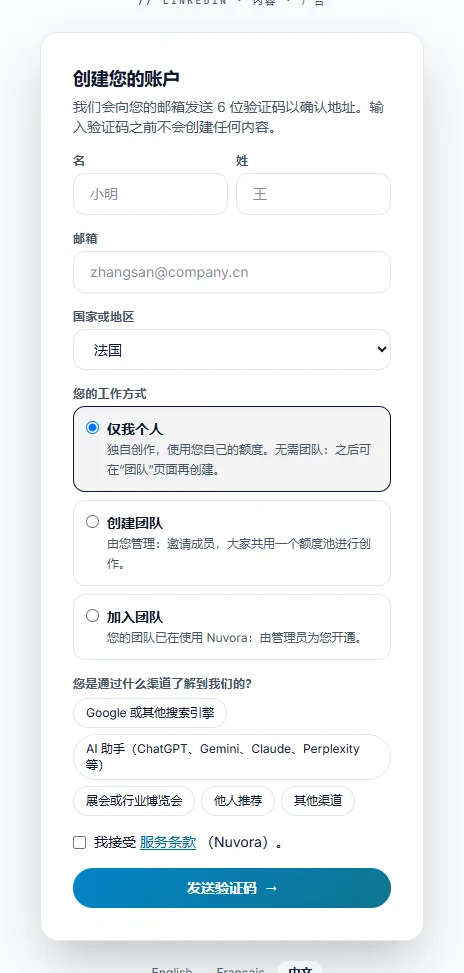
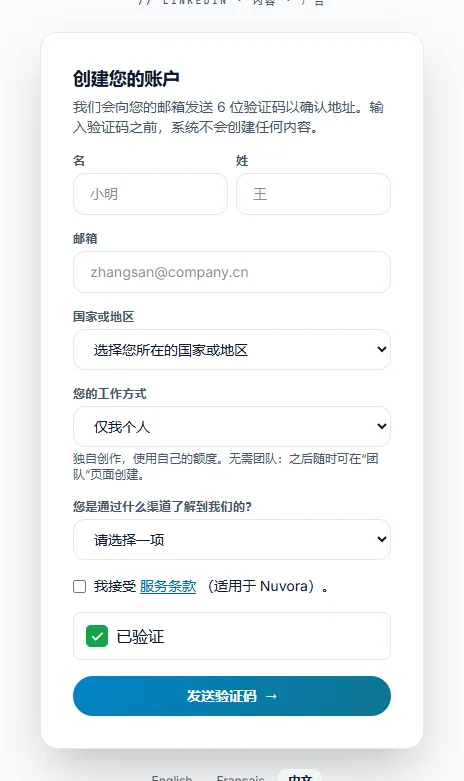
Help (EN/FR/ZH) synced from the app: sign up asks How you work in a list, captures retaken; the other articles brought up to date (sign in check, agents, LinkedIn posts, troubleshooting, your team)

diff --git a/src/content/help/en/getting-started.md b/src/content/help/en/getting-started.md
@@ -5,7 +5,7 @@ description: "What Nuvora is, how to create your account alone or with a team, h
 excerpt: "Create your account, find your way around the menu and publish your first LinkedIn post in a few minutes."
 section: "getting-started"
 order: 1
-updated: 2026-10-14
+updated: 2026-10-16
 appPaths: ["/signup", "/login", "/discover", "/social/linkedin/posts"]
 audience: "Everyone"
 related: ["discovery-and-tips", "linkedin-posts", "calendar", "linkedin-ads", "validation", "ask", "agents", "assets-library", "my-connections", "balance-and-payments", "your-team", "client-space", "account-and-sign-in"]
@@ -13,8 +13,8 @@ shots:
   - file: "/images/help/getting-started-signup.webp"
     route: "/signup"
     clip: "the Create your account card"
-    alt: "The Create your account card: First name, Last name, Email, Country, the three choices under How you work, the five answers under How did you hear about us?, the Terms of Service box and Send my code"
-    captured: 2026-10-14
+    alt: "The Create your account card: First name, Last name, Email, Country, the How you work list, the How did you hear about us? list, the Terms of Service box, the I'm not a robot check, ticked, and Send my code"
+    captured: 2026-10-16
   - file: "/images/help/getting-started-menu.webp"
     route: "/social/linkedin/posts"
     clip: "#side-nav"
@@ -30,19 +30,19 @@ You can work alone, or in a team that shares one prepaid balance, held in US dol
 ## Create your account
 
 1. On the sign-in page, click **Create an account**.
-2. Type your **First name**, **Last name** and **Email**.
+2. Type your **First name**, **Last name** and **Email**. A name can't contain a web address or an email address.
 3. Under **Country**, pick the country you work from. The list is written in the language of the page; when Nuvora can tell where you connect from, that country is already picked, and you change it if it is wrong.
-4. Under **How you work**, pick one of the three options:
+4. Under **How you work**, open the list and pick one of the three options. **Just me** is picked to start with, and the line under the list explains the option you picked:
    - **Just me**: "Create on your own, with your own credits. No team needed: you can create one later from the Team page." No team is created: you work as a **Creator**. If you create a team later from the **Team** page, you become its Admin.
-   - **Create a team**: "You run it: invite people, and they create from one shared pool of credits." A field appears: type the name of your team. You are its administrator.
+   - **Create a team**: "You run it: invite people, and they create from one shared pool of credits." A field appears: type the name of your team, which can't contain a web address or an email address either. You are its administrator.
    - **Join a team**: "Your team already uses Nuvora: an admin lets you in." A field appears where you type your team's name or your admin's email address.
-5. Under **How did you hear about us?**, pick the answer that fits: **Google or another search engine**, **An AI assistant (ChatGPT, Gemini, Claude, Perplexity…)**, **An exhibition or a trade show**, **A referral, someone recommended us** or **Somewhere else**.
+5. Under **How did you hear about us?**, open the list, which reads **Choose an answer**, and pick the one that fits: **Google or another search engine**, **An AI assistant (ChatGPT, Gemini, Claude, Perplexity…)**, **An exhibition or a trade show**, **A referral, someone recommended us** or **Somewhere else**.
 6. Tick the box to accept the Terms of Service.
-7. Click **Send my code**. Nuvora emails you a 6-digit code. Nothing is created before you enter it.
+7. Click **Send my code**, under the box marked **I'm not a robot**, which ticks itself while the page loads: there is nothing to click. Nuvora emails you a 6-digit code. Nothing is created before you enter it.
 
 The country and the answer are both required: without them, the form says **Please choose your country.** or **Please tell us how you heard about us.** Your country shows on your page in the team, for your admins; how you heard about us stays with Nuvora.
 
-![The Create your account card: First name, Last name, Email, Country, the three choices under How you work, the five answers under How did you hear about us?, the Terms of Service box and Send my code](/images/help/getting-started-signup.webp)
+![The Create your account card: First name, Last name, Email, Country, the How you work list, the How did you hear about us? list, the Terms of Service box, the I'm not a robot check, ticked, and Send my code](/images/help/getting-started-signup.webp)
 
 The code is valid for 20 minutes. Temporary mailboxes can't open an account: use your work or personal address. If the address already has an account, you receive an email saying so instead of a code.
 
@@ -57,7 +57,7 @@ Nothing arriving? Check the spam folder, or click **start again** to correct the
 
 ## Sign in
 
-Type your **Login** (your email address) and your **Password**, then click **Sign in**. The sign-in page speaks your browser's language, English, French or Chinese, and the language names under the card switch it. Once you're in, Nuvora speaks the language saved on your account; change it any time in **User Settings**, under **Language**.
+Type your **Login** (your email address) and your **Password**, then click **Sign in**. The box marked **I'm not a robot** above the button ticks itself while the page loads and reads **Verified** a second later: it keeps scripts out, and there is nothing to click. The sign-in page speaks your browser's language, English, French or Chinese, and the language names under the card switch it. Once you're in, Nuvora speaks the language saved on your account; change it any time in **User Settings**, under **Language**.
 
 The very first time you sign in, Nuvora opens **Discovery**: every module of your menu, the first steps worth taking, the help center and a quick guided tour of the screen. If you were heading for a page, from a link in an email for instance, **Continue to your page** takes you there. After that, you land on **Posts**, or on the home page you chose in **User Settings**, and **Discovery** stays in the menu under your picture. A client login always lands on its **Client space**, and a commercial partner on **Commissions**.
 

diff --git a/src/content/help/fr/account-and-sign-in.md b/src/content/help/fr/account-and-sign-in.md
@@ -7,7 +7,7 @@ description: "La page Paramètres de Nuvora : votre nom, votre photo, votre adr
 excerpt: "Tout ce qui vous concerne dans les Paramètres du compte, et le fonctionnement de la connexion, du code de connexion et de la récupération du mot de passe."
 section: "account"
 order: 14
-updated: 2026-10-14
+updated: 2026-10-16
 appPaths: ["/settings", "/login", "/forgot-password", "/reset-password"]
 audience: "Tout le monde"
 related: ["getting-started", "discovery-and-tips", "my-connections", "your-team", "balance-and-payments", "agents", "choosing-a-model", "troubleshooting"]
@@ -42,7 +42,7 @@ Un administrateur gère l’équipe, ses membres et ses crédits partagés. Voir
 
 ## Votre nom
 
-Sous **Votre nom**, saisissez votre **Prénom** et votre **Nom**, puis cliquez sur **Enregistrer**. C’est ainsi que Nuvora s’adresse à vous et que vos collègues vous voient : dans l’en-tête, dans les listes de personnes et dans les e-mails que nous vous envoyons. Votre adresse de connexion ne change pas ici. Laissez les deux champs vides, et Nuvora affiche votre adresse e-mail à la place.
+Sous **Votre nom**, saisissez votre **Prénom** et votre **Nom**, puis cliquez sur **Enregistrer**. C’est ainsi que Nuvora s’adresse à vous et que vos collègues vous voient : dans l’en-tête, dans les listes de personnes et dans les e-mails que nous vous envoyons. Votre adresse de connexion ne change pas ici. Laissez les deux champs vides, et Nuvora affiche votre adresse e-mail à la place. Un nom ne peut contenir ni adresse web ni adresse e-mail : Nuvora vous le signale et conserve celui que vous aviez.
 
 ## Photo de profil
 
@@ -140,6 +140,12 @@ Sous **Factures**, saisissez le **Nom sur la facture** et l’**Adresse** imprim
 
 **Journal d’activité** recense chaque action payante que vous avez lancée, les ressources qu’elle a mobilisées et le montant facturé : le nombre d’actions enregistrées, ce que vous avez dépensé ce mois-ci et aujourd’hui, un graphique des 14 derniers jours, la dépense par action et la liste complète, que vous pouvez filtrer.
 
+## Journal de publication
+
+**Journal de publication** retrace le sort de chaque post LinkedIn que vous avez programmé ou publié : la date, le post, le compte, le résultat (**Publié**, **Échec de l’envoi**, **Nouvelle tentative prévue**, **Modifié sur le réseau** ou **Supprimé**) et le lien vers le post ou la réponse de LinkedIn. Trois chiffres figurent en tête : **Publié**, **Échec de l’envoi** et **Retentés plus tard**. Filtrez la liste en tapant quelques mots, ou avec **Tous**, **Publié**, **Échec de l’envoi** et **Autre** ; **Afficher plus** fait apparaître les événements plus anciens.
+
+Les posts programmés, publiés ou non, vous parviennent aussi par e-mail une fois par jour, à 8 h dans votre fuseau horaire, réunis dans un seul récapitulatif : Nuvora n’envoie aucun e-mail post par post, et une journée sans rien à signaler n’en envoie aucun. Pour arrêter ce récapitulatif, désactivez **Publication sur les réseaux sociaux** sur la page qu’ouvre **Gérer tous vos e-mails** ; le journal, lui, demeure.
+
 ## Le code de connexion par e-mail
 
 Les nouvelles équipes demandent une seconde étape à la connexion. Après votre mot de passe, Nuvora envoie un code à 6 chiffres à votre adresse e-mail. L’écran **Encore une étape** indique où il est parti et combien de temps il reste valable : 10 minutes.
@@ -159,7 +165,7 @@ L’onglet **Code de connexion** de **Connexion et sécurité** liste les naviga
 ## Mot de passe oublié
 
 1. Sur la page de connexion, cliquez sur **Mot de passe oublié ?**
-2. Saisissez votre adresse e-mail dans **Identifiant** et cliquez sur **Envoyer le lien de réinitialisation**.
+2. Saisissez votre adresse e-mail dans **Identifiant** et cliquez sur **Envoyer le lien de réinitialisation**. La case **Je ne suis pas un robot**, au-dessus du bouton, se coche d’abord toute seule, comme sur la page de connexion.
 3. Si un compte existe pour cette adresse, un lien de réinitialisation vous est envoyé. Il reste valable environ une heure.
 4. Ouvrez le lien, saisissez un **Nouveau mot de passe** d’au moins 8 caractères et **Confirmez le mot de passe**, puis cliquez sur **Définir le nouveau mot de passe**.
 5. La page affiche **Mot de passe mis à jour**. Cliquez sur **Se connecter**.

diff --git a/src/content/help/fr/agents.md b/src/content/help/fr/agents.md
@@ -95,7 +95,7 @@ Un agent personnalisé lit les données que vous choisissez et suit les instruct
    - **Dans l’application** : **Activité sociale** (les contenus sociaux des 30 derniers jours, ce qui a été rédigé, planifié et publié), **Publications LinkedIn** (les posts LinkedIn des 30 derniers jours et des 14 prochains, publiés, programmés ou en échec, ainsi que les brouillons en attente) et **Compte publicitaire LinkedIn** (le compte publicitaire de la personne pour qui l’agent tourne, lu en direct, les 7 derniers jours comparés aux 7 précédents).
    - **Dans la Bibliothèque de contenus** : n’importe quelle [campagne](/fr/aide/campagnes) de l’équipe, en tête de liste et signalée par **Campagne**, ainsi que n’importe quel dossier ou document de la bibliothèque. Une campagne apporte son brief et chacun de ses contenus, les images et les clips décrits par leur prompt. Un dossier apporte tous les documents qu’il contient, sous-dossiers compris. Les fichiers PDF, Word, Excel, Markdown et texte sont lus ; les images et les clips sont laissés de côté. Chaque téléchargement est facturé comme depuis la Bibliothèque de contenus. Au-delà de six entrées, un champ de recherche (**Rechercher une campagne, un dossier ou un document**) resserre la liste. **Gérer la bibliothèque** ouvre la bibliothèque dans un nouvel onglet.
    - **Systèmes connectés** : les systèmes reliés à votre équipe, s’il y en a. **Gérer les connexions** ouvre la page où on les relie.
-4. Dans l’onglet **Général**, rédigez ses **Instructions** : ce qu’il doit chercher dans ces données, ce qui mérite un constat, et ce qu’il doit ignorer.
+4. Dans l’onglet **Général**, rédigez ses **Instructions** : ce qu’il doit chercher dans ces données, ce qui mérite un constat, et ce qu’il doit ignorer. **Améliorer avec l’IA**, à côté de la zone, les rédige pour vous à partir du nom et du périmètre de l’agent, ou réécrit ce que vous avez saisi.
 5. Cliquez sur **Créer l’agent**. Il démarre activé.
 
 Vous ne pouvez confier à un agent que des données que vous voyez vous-même. Chaque bloc suit vos droits, comme sur ses propres pages.
@@ -110,6 +110,8 @@ Le même formulaire sert à ajouter, à créer et à modifier un agent. **Nom**,
 |---|---|
 | **La description présentée aux utilisateurs** | La phrase affichée sur sa carte. |
 | **Instructions** | Ce qu’il surveille et comment en juger. Laissez le champ vide sur un agent standard pour conserver les instructions standard. Ce qu’il a le droit de signaler et sa manière de graduer la gravité sont fixés par la plateforme. |
+
+Chacune des deux zones dispose d’un bouton **Améliorer avec l’IA**. Si la zone contient du texte, il le réécrit ; si elle est vide, il la rédige à partir du nom et du périmètre de l’agent. Il écrit avec le modèle sélectionné en haut de l’onglet. Le prix s’affiche sous la zone, avec **Annuler**, qui rétablit votre texte. Rien n’est enregistré tant que vous n’enregistrez pas l’agent.
 
 ### Périmètre
 
@@ -233,6 +235,7 @@ Une exécution qui fait appel à l’IA est payante : les tokens du modèle, pl
 | Une exécution planifiée de votre agent personnel | Vous, propriétaire de l’agent, dans la limite quotidienne qui vous est accordée sur les crédits de l’équipe. |
 | Une exécution planifiée d’un agent de l’équipe | L’équipe. |
 | **Lancer maintenant** | La personne qui clique. |
+| **Améliorer avec l’IA** dans le formulaire de l’agent | La personne qui clique, au prix affiché sous la zone. |
 
 Le prix de chaque exécution qui a fait appel à l’IA figure dans **Exécutions précédentes** et dans l’e-mail des résultats. Le **Budget mensuel (USD)** et le **Budget hebdomadaire (USD)** propres à l’agent l’arrêtent avant qu’il ne dépense davantage ; une limite plus stricte fixée pour vous ou pour l’équipe l’emporte toujours. Voir [Solde et paiements](/fr/aide/solde-et-paiements).
 

diff --git a/src/content/help/fr/linkedin-posts.md b/src/content/help/fr/linkedin-posts.md
@@ -7,7 +7,7 @@ description: "Le module Posts : rédiger le brief et le brouillon d’un post L
 excerpt: "Rédigez un post LinkedIn avec l’IA ou à la main, donnez-lui une image ou un carrousel, et publiez-le sur votre profil ou votre page entreprise, tout de suite ou à l’heure de votre choix."
 section: "linkedin"
 order: 2
-updated: 2026-10-08
+updated: 2026-10-16
 appPaths: ["/social/linkedin/posts", "/my-connections"]
 audience: "Créateurs et administrateurs ; les lecteurs consultent"
 related: ["calendar", "validation", "my-connections", "assets-library", "campaigns", "skills", "choosing-a-model", "client-space", "your-team", "agents"]
@@ -141,7 +141,7 @@ Ouvrez **La publication** et restez sur l’onglet **Publier automatiquement**. 
 
 Les boutons restent verrouillés tant qu’aucun compte n’est coché : le badge à côté des onglets indique **Inactif tant qu’aucun compte n’est coché**, puis **Prêt quand vous l’êtes**. L’heure s’entend dans votre propre fuseau horaire, défini dans **Paramètres**. Une heure programmée doit se situer au moins deux minutes plus tard et au plus un an plus tard, et un même post peut partir sur 20 comptes au maximum.
 
-Nuvora consulte la file d’attente toutes les cinq minutes : un post prévu à 9 h part donc entre 9 h et 9 h 05. Il contrôle encore une fois le post au regard des limites de LinkedIn avant l’envoi. Quand un post programmé part, la personne qui l’a mis en file reçoit un e-mail qui le lui confirme. Chaque post programmé ou publié apparaît également dans le [Calendrier](/fr/aide/calendrier).
+Nuvora consulte la file d’attente toutes les cinq minutes : un post prévu à 9 h part donc entre 9 h et 9 h 05. Il contrôle encore une fois le post au regard des limites de LinkedIn avant l’envoi. Nuvora n’envoie pas d’e-mail post par post : une fois par jour, à 8 h dans votre fuseau horaire, un seul e-mail récapitule les posts programmés publiés ou non, et votre **Journal de publication**, dans les **Paramètres du compte**, les conserve tous. Chaque post programmé ou publié apparaît également dans le [Calendrier](/fr/aide/calendrier).
 
 ## Publier manuellement
 
@@ -168,7 +168,7 @@ Tout ce que vous programmez ou envoyez arrive sous **Dans la file d’attente**,
 
 **Annuler** retire le post de la file d’attente après confirmation. Il reste dans le module et peut être programmé de nouveau.
 
-Un incident passager du côté de LinkedIn fait l’objet de nouvelles tentatives automatiques, trois en tout, et la ligne indique l’heure de la prochaine. Un problème de contenu, ou un compte à reconnecter, n’entraîne aucune nouvelle tentative : la personne qui a mis le post en file reçoit un e-mail reprenant la réponse de LinkedIn. Un compte qui ne fonctionne plus affiche **Reconnecter** sur sa tuile et ne peut pas être coché : reconnectez-le dans Mes connexions. Une tuile indique aussi le nombre de jours restants lorsque la connexion expire dans une semaine ou moins.
+Un incident passager du côté de LinkedIn fait l’objet de nouvelles tentatives automatiques, trois en tout, et la ligne indique l’heure de la prochaine. Un problème de contenu, ou un compte à reconnecter, n’entraîne aucune nouvelle tentative : la réponse de LinkedIn s’affiche sur le post, dans votre **Journal de publication** et dans le prochain e-mail récapitulatif. Un compte qui ne fonctionne plus affiche **Reconnecter** sur sa tuile et ne peut pas être coché : reconnectez-le dans Mes connexions. Une tuile indique aussi le nombre de jours restants lorsque la connexion expire dans une semaine ou moins.
 
 Une fois un post parti, Nuvora ne peut plus le modifier ni le retirer de LinkedIn. Pour le modifier ou le supprimer, faites-le sur LinkedIn.
 

diff --git a/src/content/help/en/account-and-sign-in.md b/src/content/help/en/account-and-sign-in.md
@@ -5,7 +5,7 @@ description: "The Settings page in Nuvora: your name, picture, sign-in email and
 excerpt: "Everything in User Settings that applies to you, and how signing in, the sign-in code and password recovery work."
 section: "account"
 order: 14
-updated: 2026-10-14
+updated: 2026-10-16
 appPaths: ["/settings", "/login", "/forgot-password", "/reset-password"]
 audience: "Everyone"
 related: ["getting-started", "discovery-and-tips", "my-connections", "your-team", "balance-and-payments", "agents", "choosing-a-model", "troubleshooting"]
@@ -40,7 +40,7 @@ An admin manages the team, its people and its shared credits. See [Your team](/h
 
 ## Your name
 
-Under **Your name**, type your **First name** and **Last name** and click **Save**. It is how Nuvora addresses you and how your teammates see you, in the header, in the lists of people and in the emails we send you. Your sign-in address doesn't change here. Leave both fields empty and Nuvora uses your email address instead.
+Under **Your name**, type your **First name** and **Last name** and click **Save**. It is how Nuvora addresses you and how your teammates see you, in the header, in the lists of people and in the emails we send you. Your sign-in address doesn't change here. Leave both fields empty and Nuvora uses your email address instead. A name can't contain a web address or an email address: Nuvora says so and keeps the one you had.
 
 ## Profile picture
 
@@ -138,6 +138,12 @@ Under **Invoices**, type the **Name on the invoice** and the **Address** printed
 
 **Activity log** lists every paid action you ran, what it used and what it was billed: the number of actions recorded, what you spent this month and today, a chart of the last 14 days, the spend by action, and the full list, which you can filter.
 
+## Publishing log
+
+**Publishing log** lists what happened to every LinkedIn post you scheduled or published: when, the post, the account, the outcome (**Published**, **Did not go out**, **Will be tried again**, **Edited on the network** or **Deleted**) and the link to the post or what LinkedIn said. Three figures sit on top: **Published**, **Did not go out** and **Tried again later**. Filter the list by typing, or with **All**, **Published**, **Did not go out** and **Other**; **Show more** brings older events.
+
+The scheduled posts that went out or did not also reach you by email, once a day at 08:00 your time, all in one recap: Nuvora sends no email post by post, and a day with nothing to report sends nothing. To stop the recap, switch off **Social publishing** on the page **Manage all your emails** opens; the log stays.
+
 ## The sign-in code by email
 
 New teams ask for a second step when you sign in. After your password, Nuvora sends a 6-digit code to your email address. The screen **One more step** says where it went and how long it is good for: 10 minutes.
@@ -157,7 +163,7 @@ The **Sign-in code** tab in **Sign-in and security** lists the browsers you told
 ## Forgot your password
 
 1. On the sign-in page, click **Forgot password?**.
-2. Type your **Login** email address and click **Send reset link**.
+2. Type your **Login** email address and click **Send reset link**. The **I'm not a robot** box above the button ticks itself first, as on the sign-in page.
 3. If an account exists for that address, a reset link is on its way. It stays valid for about an hour.
 4. Open the link, type a **New password** of at least 8 characters and **Confirm password**, then click **Set new password**.
 5. The page says **Password updated**. Click **Sign in**.

diff --git a/src/content/help/en/agents.md b/src/content/help/en/agents.md
@@ -93,7 +93,7 @@ A custom agent reads the data you pick and follows instructions you write.
    - **In the app**: **Social activity** (the social content of the last 30 days, what was drafted, planned and published), **LinkedIn publishing** (the LinkedIn posts of the last 30 days and the next 14, published, scheduled, failed, and the drafts waiting) and **LinkedIn ad account** (the ad account of the person the agent runs for, read live, the last 7 days against the 7 before).
    - **From the Assets Library**: any of your team's [campaigns](/help/campaigns), listed first and marked **Campaign**, and any folder or document of the library. A campaign brings its brief and every asset in it, pictures and clips by their prompt. A folder brings every document in it and in its subfolders. PDF, Word, Excel, Markdown and text files are read; pictures and clips are left aside. Every download is billed like one from the Assets Library. Past six entries, a search box (**Search a campaign, a folder or a document**) narrows the list. **Manage the library** opens the library in a new tab.
    - **Connected systems**: the systems connected to your team, if any. **Manage connections** opens the page where they are connected.
-4. On the **General** tab, write its **Instructions**: what it should look for in that data, what counts as a finding, and what it should ignore.
+4. On the **General** tab, write its **Instructions**: what it should look for in that data, what counts as a finding, and what it should ignore. **Improve with AI**, next to the box, writes them for you from the agent's name and scope, or rewrites what you typed.
 5. Click **Create the agent**. It starts switched on.
 
 You can only give an agent data you can see yourself. Each block follows your rights, as on its own pages.
@@ -108,6 +108,8 @@ The same form serves for adding, creating and editing an agent. **Name**, at the
 |---|---|
 | **What users are told it does** | The sentence shown on its card. |
 | **Instructions** | What it watches and how to judge it. Leave it empty on a standard agent to keep the standard instructions. What it may report and how it grades severity is fixed by the platform. |
+
+Each of the two boxes has an **Improve with AI** button. With text in the box, it rewrites it; with the box empty, it writes it from the agent's name and scope. It writes with the model picked at the top of the tab, under **Improve with AI writes with**. The price shows under the box, with **Undo**, which puts back what you had. Nothing is saved until you save the agent.
 
 ### Scope
 
@@ -231,6 +233,7 @@ A run that reaches the AI is paid: the tokens of the model, plus each web search
 | A scheduled run of your personal agent | You, the agent's owner, counted against your daily limit on the team's credits. |
 | A scheduled run of a team agent | The team. |
 | **Run now** | The person who clicks it. |
+| **Improve with AI** on the agent form | The person who clicks it, at the price shown under the box. |
 
 The price of every run that reached the AI is shown in **Previous runs** and in the results email. The agent's own **Monthly budget (USD)** and **Weekly budget (USD)** stop it before it spends more; a tighter limit set for you or the team still wins. See [Balance and payments](/help/balance-and-payments).
 

diff --git a/src/content/help/en/linkedin-posts.md b/src/content/help/en/linkedin-posts.md
@@ -5,7 +5,7 @@ description: "The Posts module: brief and draft a LinkedIn post, add its picture
 excerpt: "Draft a LinkedIn post with AI or by hand, give it a picture or a carousel, and publish it on your profile or your company page, now or at the hour you pick."
 section: "linkedin"
 order: 2
-updated: 2026-10-08
+updated: 2026-10-16
 appPaths: ["/social/linkedin/posts", "/my-connections"]
 audience: "Creators and admins; viewers read"
 related: ["calendar", "validation", "my-connections", "assets-library", "campaigns", "skills", "choosing-a-model", "client-space", "your-team", "agents"]
@@ -139,7 +139,7 @@ Open **Publishing** and stay on the **Publish automatically** tab. Nuvora posts 
 
 The buttons stay locked until an account is ticked: the badge next to the tabs reads **Off until you tick one**, then **Ready when you are**. The time is read in your own time zone, set in **Settings**. A scheduled time must be at least two minutes ahead and no more than a year away, and one post can go to up to 20 accounts.
 
-Nuvora looks at the queue every five minutes, so a post set for 09:00 goes out between 09:00 and 09:05. It checks the post against LinkedIn's limits again before sending. When a scheduled post goes out, the person who queued it gets an email saying so. Every scheduled and published post also shows on the [Calendar](/help/calendar).
+Nuvora looks at the queue every five minutes, so a post set for 09:00 goes out between 09:00 and 09:05. It checks the post against LinkedIn's limits again before sending. Nuvora sends no email post by post: once a day at 08:00 your time, one email recaps the scheduled posts that went out or did not, and your **Publishing log** in **User Settings** keeps every one of them. Every scheduled and published post also shows on the [Calendar](/help/calendar).
 
 ## Publish manually
 
@@ -166,7 +166,7 @@ Everything you schedule or send lands under **In the queue**, one row per accoun
 
 **Cancel** takes the post out of the queue after you confirm. It stays in the module and can be scheduled again.
 
-A temporary problem on LinkedIn's side is retried by itself, three attempts in all, and the row shows when the next attempt is due. A content problem or an account that needs reconnecting is not retried, and the person who queued the post receives an email saying what LinkedIn said. An account that stopped working shows **Reconnect** on its tile and can't be ticked: reconnect it on My Connections. A tile also shows the days left when the connection has a week or less to go.
+A temporary problem on LinkedIn's side is retried by itself, three attempts in all, and the row shows when the next attempt is due. A content problem or an account that needs reconnecting is not retried. What LinkedIn said shows on the post, in your **Publishing log** and in the next daily recap email. An account that stopped working shows **Reconnect** on its tile and can't be ticked: reconnect it on My Connections. A tile also shows the days left when the connection has a week or less to go.
 
 Once a post is out, Nuvora can't change or remove it on LinkedIn. To edit or delete it, do it on LinkedIn.
 
